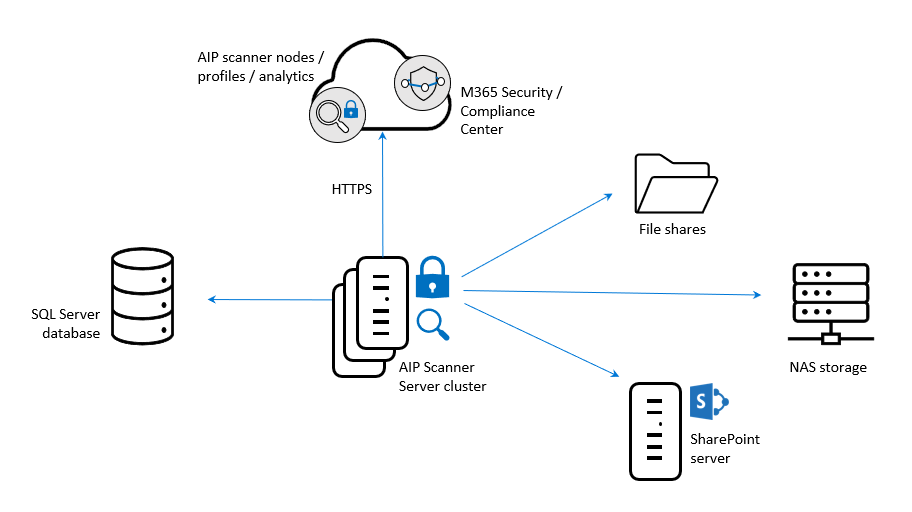
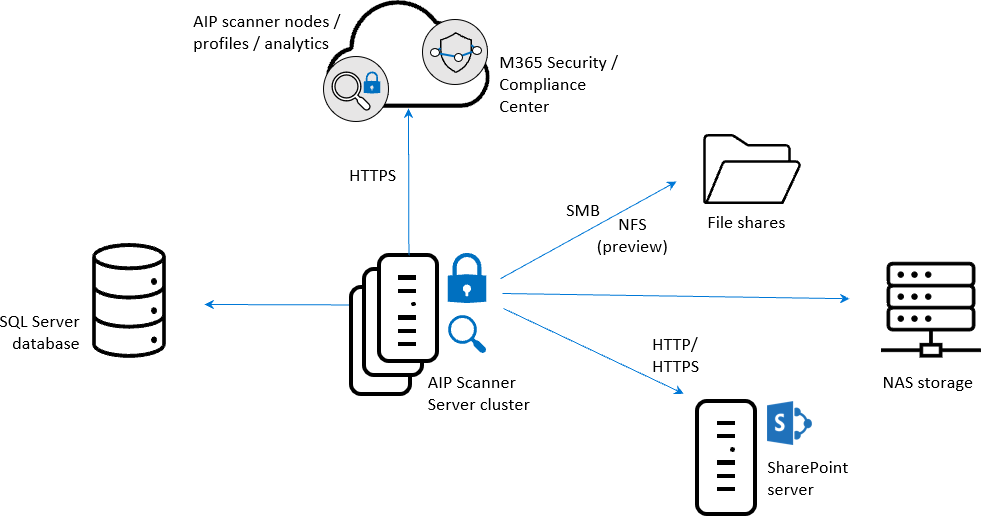
adding nfs support

diff --git a/Azure-RMSDocs/rms-client/unifiedlabelingclient-version-release-history.md b/Azure-RMSDocs/rms-client/unifiedlabelingclient-version-release-history.md
@@ -78,6 +78,11 @@ Unified labeling scanner version 2.8.9.0
 
 **Released** 11/30/2020
 
+The following new features were released for the unified labeling on-premises scanner in version 2.8.9.0:
+
+- [Azure China support with content scan job PowerShell cmdlets](#azure-china-support-with-content-scan-job-powershell-cmdlets)
+- [Support for NFS repositories in content scan jobs](#support-for-nfs-repositories-in-content-scan-jobs)
+
 ### Azure China support with content scan job PowerShell cmdlets
 The Azure Information Protection on-premises scanner now supports Azure China environments with new cmdlets that enable you to manage your content scan job via PowerShell.
 
@@ -104,6 +109,12 @@ For more information about content and network scan jobs, see [Configure the sca
 > If you are working in an **Azure China** environment, you *must* use these cmdlets to manage your content scan jobs instead of the Azure portal.
 > For more information about Azure China, see the [Azure China documentation](/azure/china/).
 > 
+
+### Support for NFS repositories in content scan jobs
+
+Now you can add NFS repositories to your content scan jobs, in addition to file shares and SharePoint repositories.
+
+For more information, see [Create a content scan job](../deploy-aip-scanner-configure-install.md#create-a-content-scan-job).
 
 ### Fixes and improvements
 

diff --git a/Azure-RMSDocs/deploy-aip-scanner-configure-install.md b/Azure-RMSDocs/deploy-aip-scanner-configure-install.md
@@ -6,7 +6,7 @@ description: Instructions for installing and configuring the Azure Information P
 author: batamig
 ms.author: bagol
 manager: rkarlin
-ms.date: 09/16/2020
+ms.date: 11/04/2020
 ms.topic: conceptual
 ms.collection: M365-security-compliance
 ms.service: information-protection
@@ -194,7 +194,7 @@ You may want to do this only after running a network scan job to analyze the rep
 
 1. Now that the content scan job is created and saved, you're ready to return to the **Configure repositories** option to specify the data stores to be scanned. 
 
-    Specify UNC paths, and SharePoint Server URLs for SharePoint on-premises document libraries and folders. 
+    Specify UNC paths, NFS repositories, and SharePoint Server URLs for SharePoint on-premises document libraries and folders. 
     
     > [!NOTE]
     > SharePoint Server 2019, SharePoint Server 2016, and SharePoint Server 2013 are supported for SharePoint. SharePoint Server 2010 is also supported when you have [extended support for this version of SharePoint](https://support.microsoft.com/lifecycle/search?alpha=SharePoint%20Server%202010).

diff --git a/Azure-RMSDocs/deploy-aip-scanner.md b/Azure-RMSDocs/deploy-aip-scanner.md
@@ -37,7 +37,7 @@ Use the information in this section to learn about the Azure Information Protect
 
 The AIP scanner runs as a service on Windows Server and lets you discover, classify, and protect files on the following data stores:
 
-- **UNC paths** for network shares that use the Server Message Block (SMB) protocol.
+- **UNC paths** for network shares that use the SMB or NFS (Preview) protocols.
 
 - **SharePoint document libraries and folder** for SharePoint Server 2019 through SharePoint Server 2013. SharePoint 2010 is also supported for customers who have [extended support for this version of SharePoint](https://support.microsoft.com/lifecycle/search?alpha=SharePoint%20Server%202010).
 
